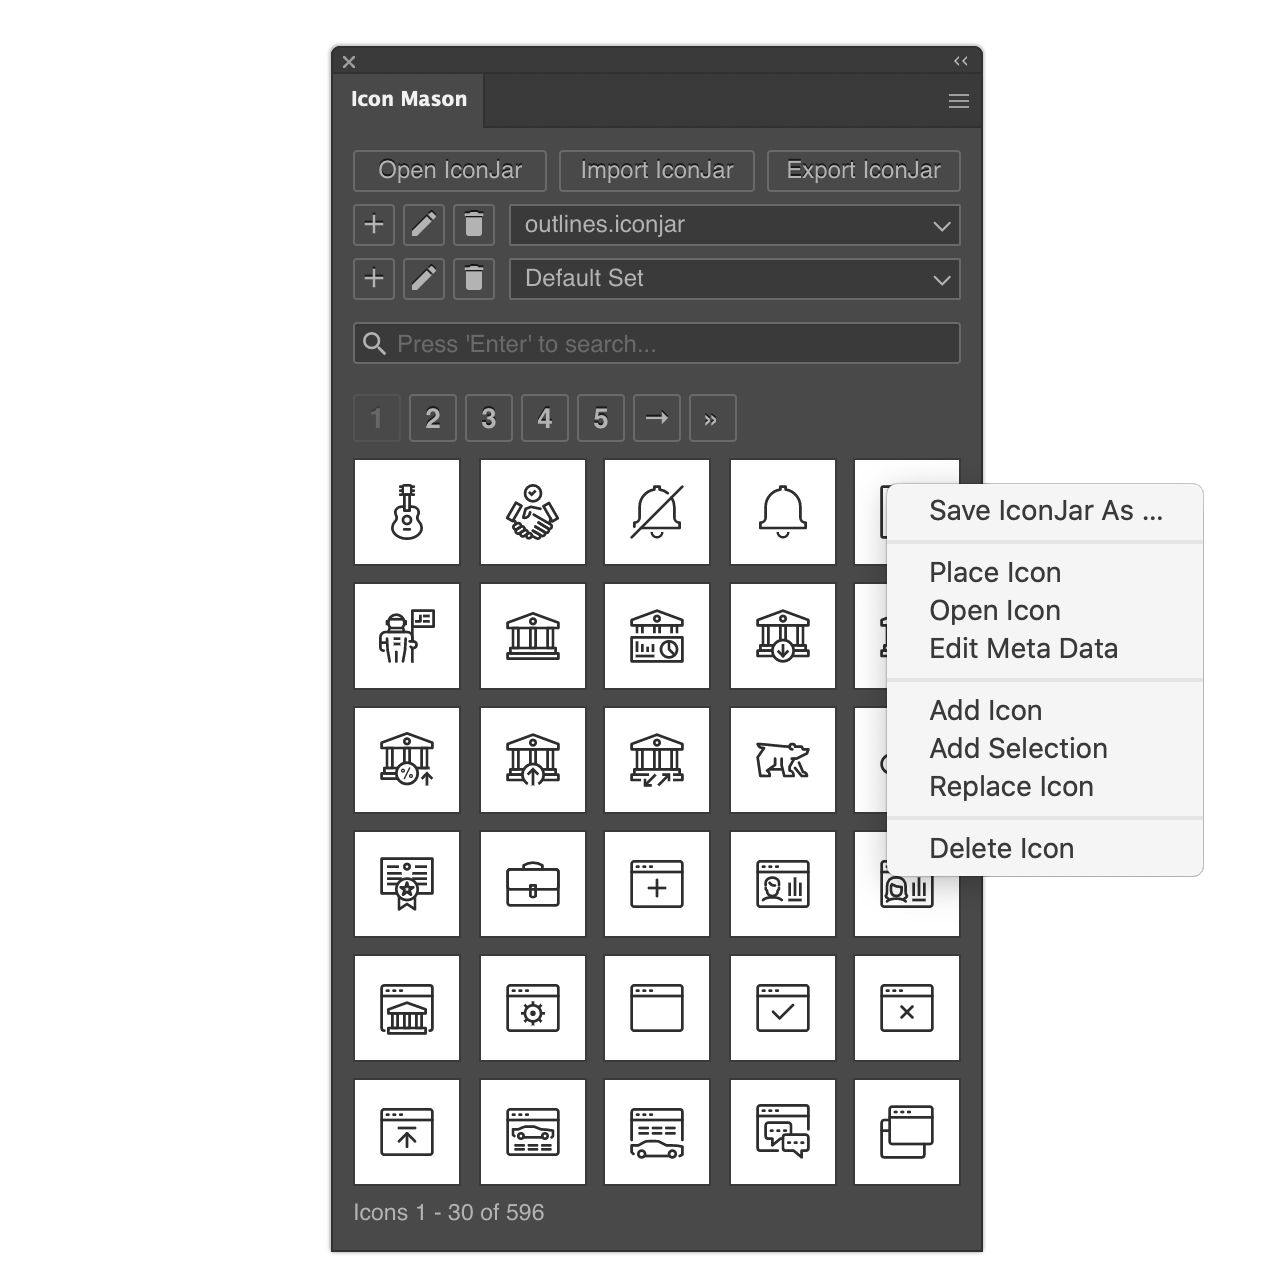
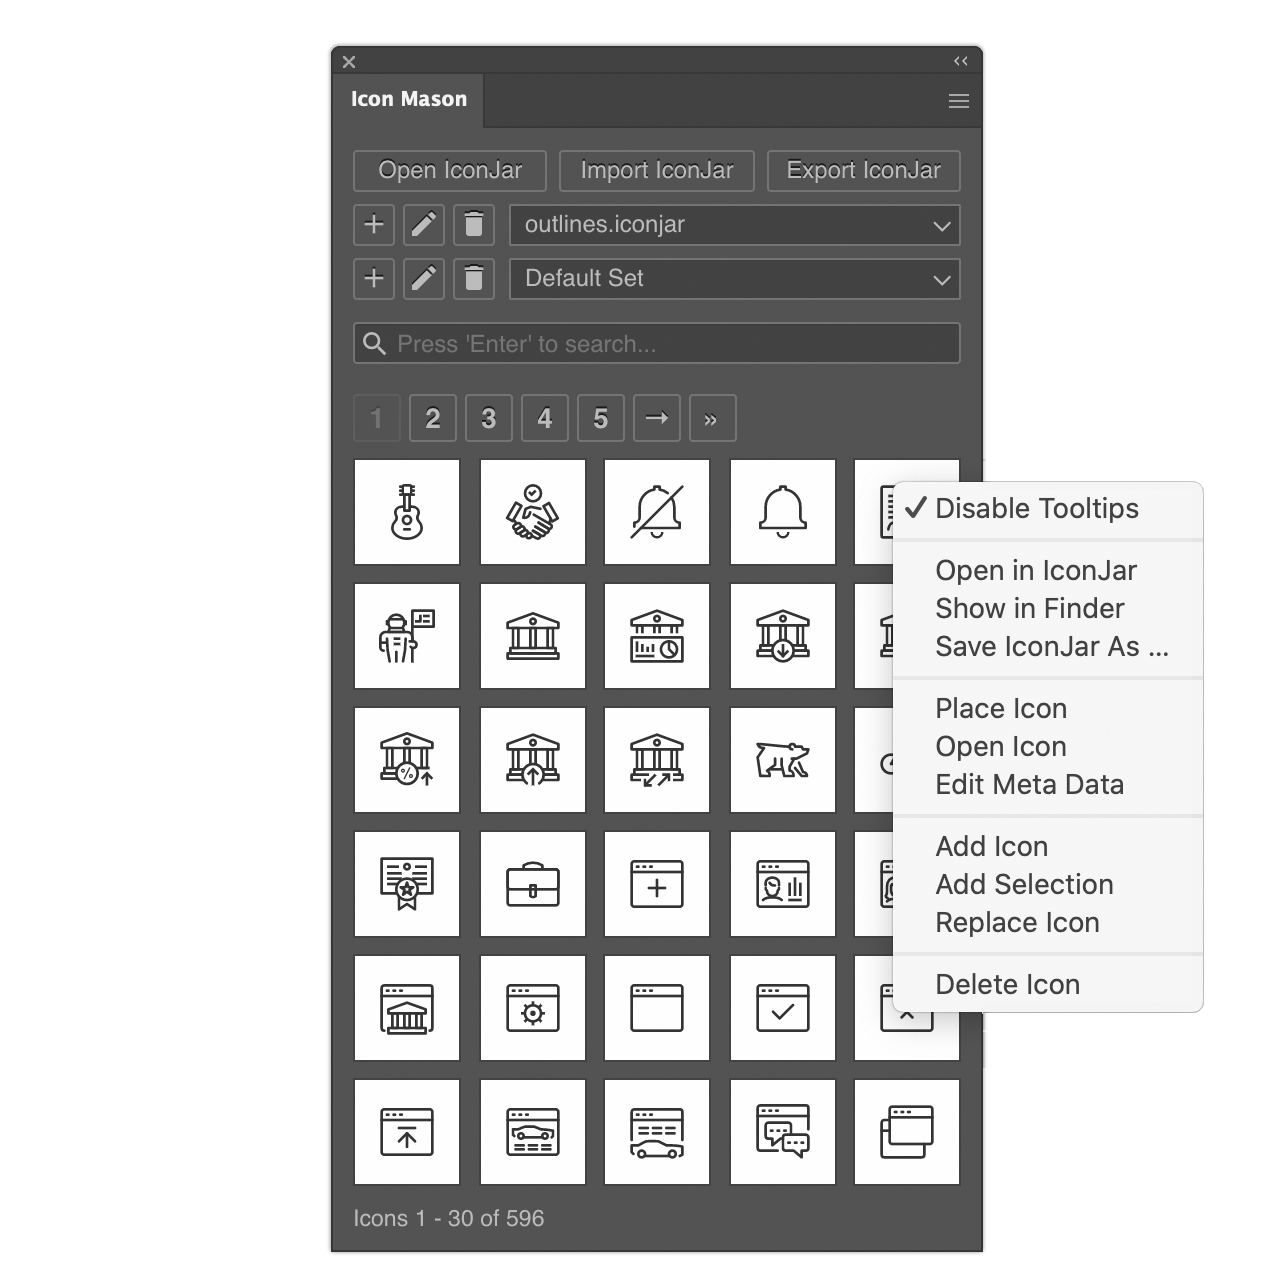
Update flyout and context menu images. Update descriptions

diff --git a/docs/menus.md b/docs/menus.md
@@ -8,10 +8,6 @@ Icon Mason has two different types of menus. See the details of each below.
 
 The Flyout Menu can be accessed via the `hamburger` menu icon in the upper right corner of the Icon Mason palette. The Flyout Menu contains menu items related to the global extension.
 
-- Open in IconJar (Mac Only) : Opens the currently selected IconJar in the IconJar app if it is installed.
-- Show in Finder : Opens the currently-seletec Icon collection in the Finder
-- Disable Tooltips : Disables the tooltips in the Icon Mason UI
-- Get Support : Open a support ticket for Icon Mason
 - Get IconJar : Purchase the IconJar app with our special discount code
 - Get Premium Icons : Purchase 40,000 icons from [Round Icons](https://roundicons.com) with our special discount
 - Install Free Icons : Install the free icons from [Diversity Avatars](https://diversityavatars.com) and [Round Icons](https://roundicons.com)
@@ -22,11 +18,18 @@ The Flyout Menu can be accessed via the `hamburger` menu icon in the upper right
 
 The context menu, accessed by right-clicking on any of the icons in the icon grid, shows controls for manipulating icons and saving the currently-selected IconJar.
 
+- Disable Tooltips : Disables the tooltips in the Icon Mason UI
+- --
+- Open in IconJar (Mac Only) : Opens the currently selected IconJar in the IconJar app if it is installed.
+- Show in Finder : Opens the currently-seletec Icon collection in the Finder
 - Save IconJar As ... : Save the currently-selected IconJar displayed in the icon grid as either IconJar or ZIP format.
+- --
 - Place Icon : Place the clicked icon on the Illustrator canvas
 - Open Icon : Open the SVG file for the clicked icon in Illustrator
 - Edit Meta Data : Edit the meta data for the clicked icon
+- --
 - Add Icon : Add a new icon from the file system to the visible IconJar
 - Add Selection : Add the selected object to the visible IconJar as a new icon
 - Replace Icon : Replace the clicked icon by selecting a new icon from your file system
+- --
 - Delete Icon : Delete the clicked icon from the IconJar
